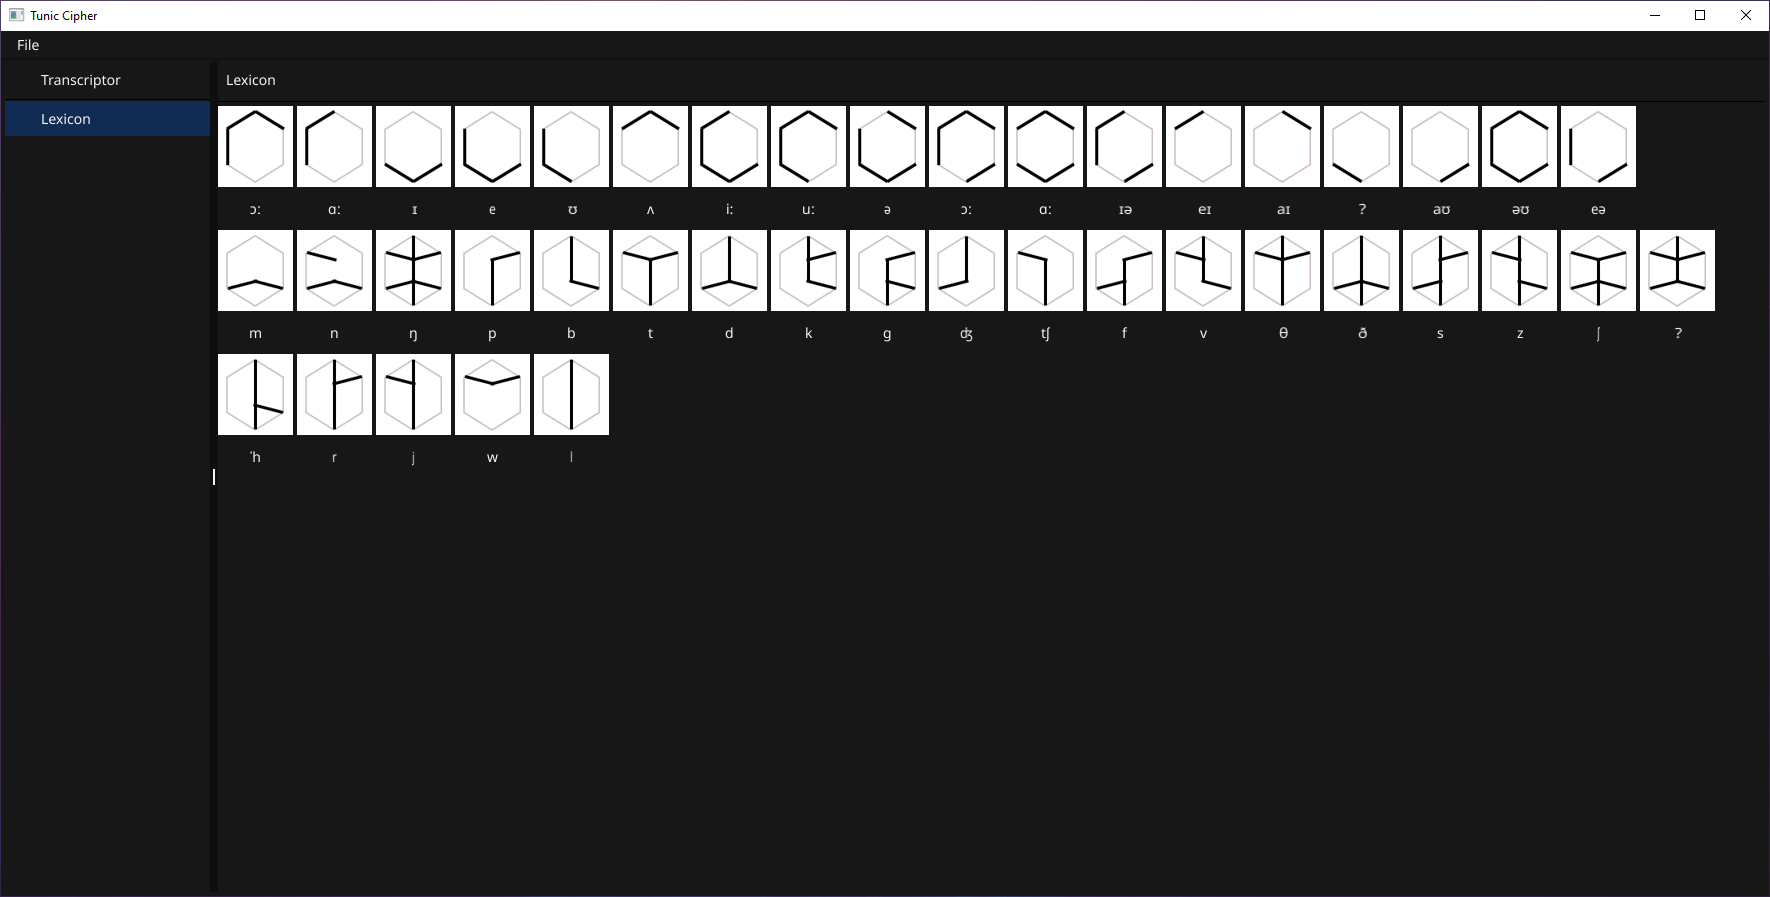
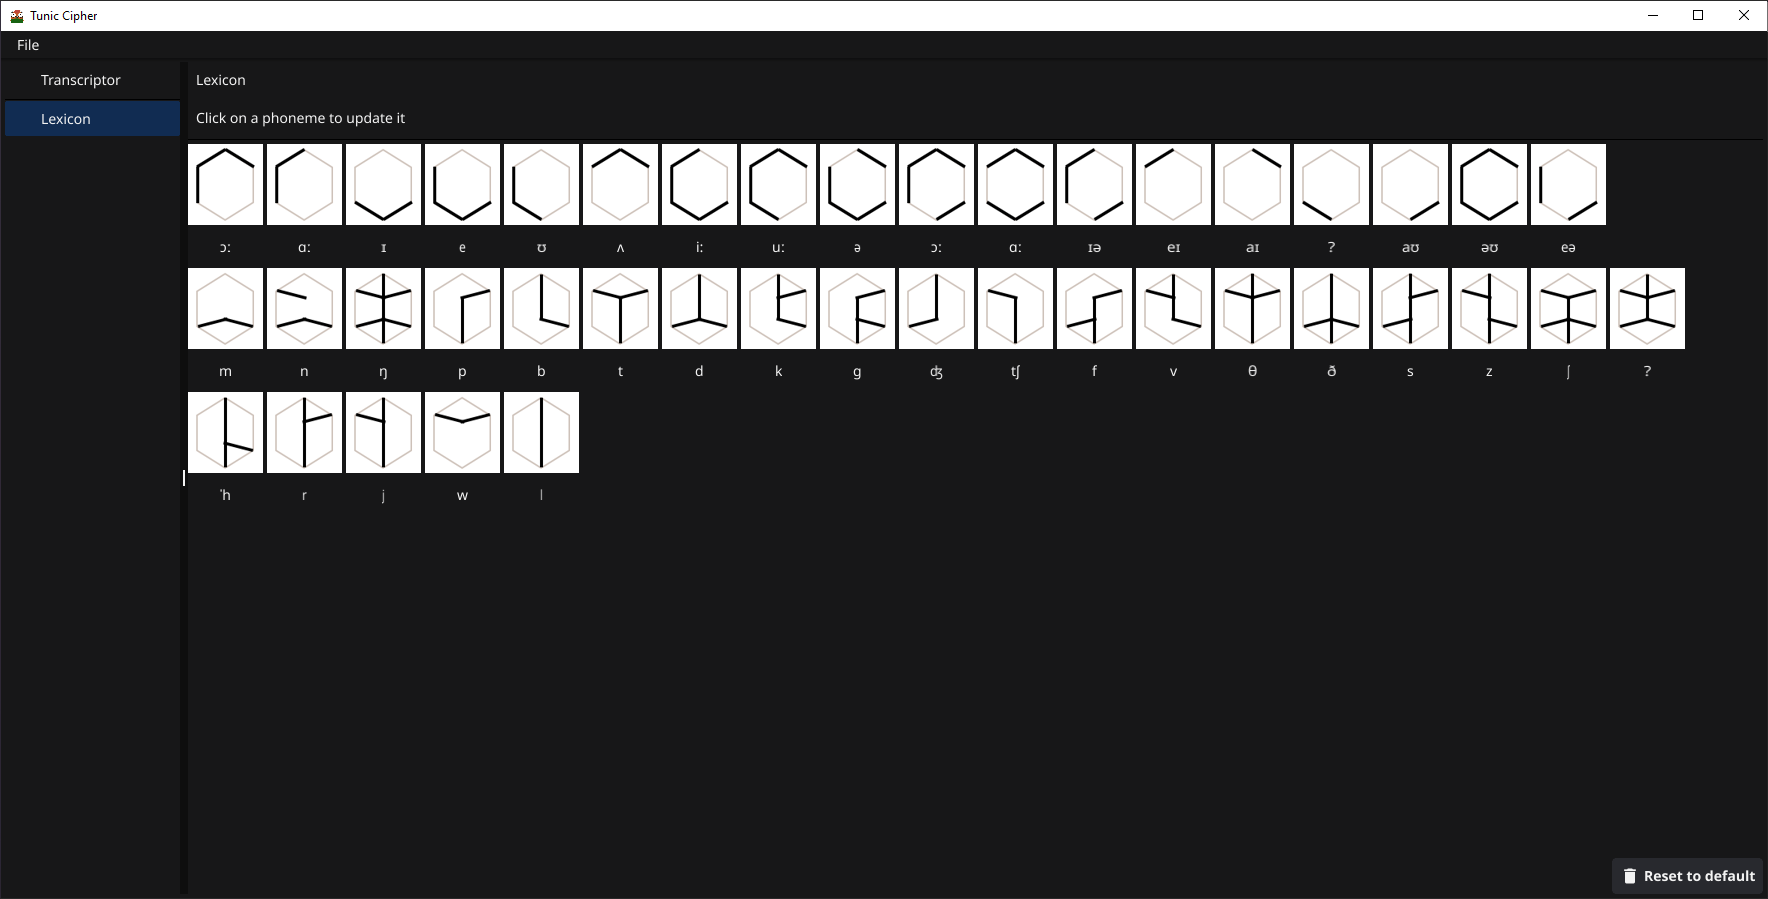
chore: update readme

Changed region(s): [[0.0, 0.0, 1.0, 1.0], [0.0, 0.0, 0.0311, 0.0312]]

diff --git a/README.md b/README.md
@@ -22,6 +22,7 @@ The Tunic Cipher is a tool designed to assist individuals in translating the cus
 
 ![query saving](resources/readme/queries.png)
 
-- **Lexicon Tab**: Access a comprehensive lexicon tab that provides a complete list of glyphs and their corresponding phonemes.
+- **Lexicon Tab**: Access a comprehensive lexicon tab that provides a complete list of glyphs and their corresponding phonemes. The phonemes are editable, allowing users to customize the translations to their liking.
 
 ![lexicon](resources/readme/lexicon.png)
+![lexicon2](resources/readme/lexicon2.png)
